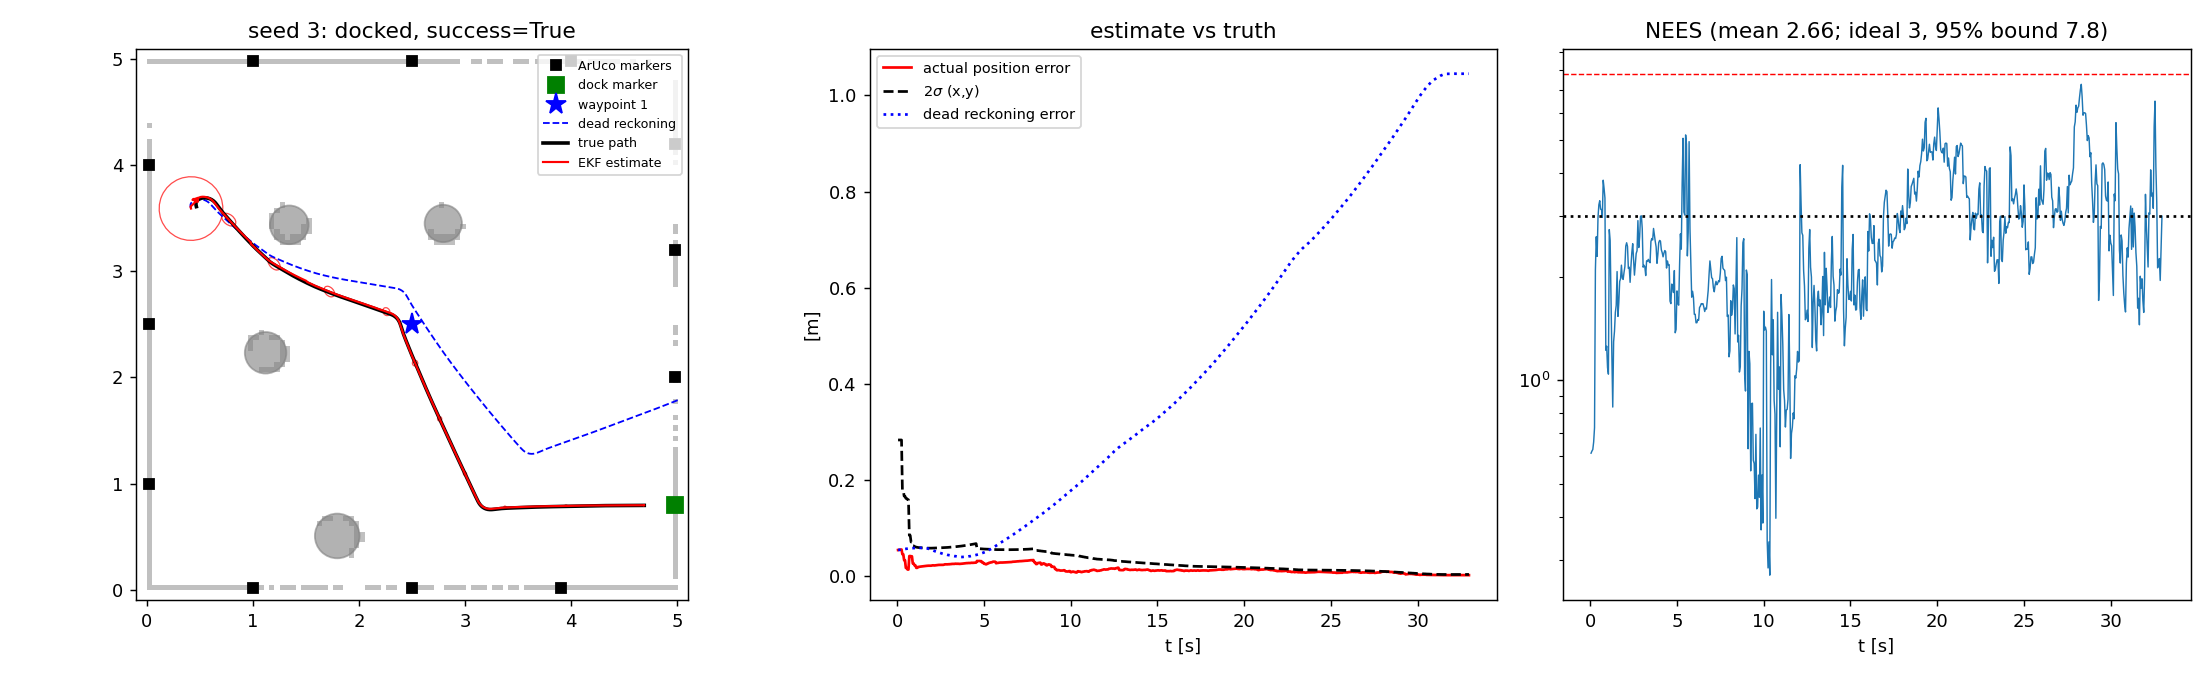
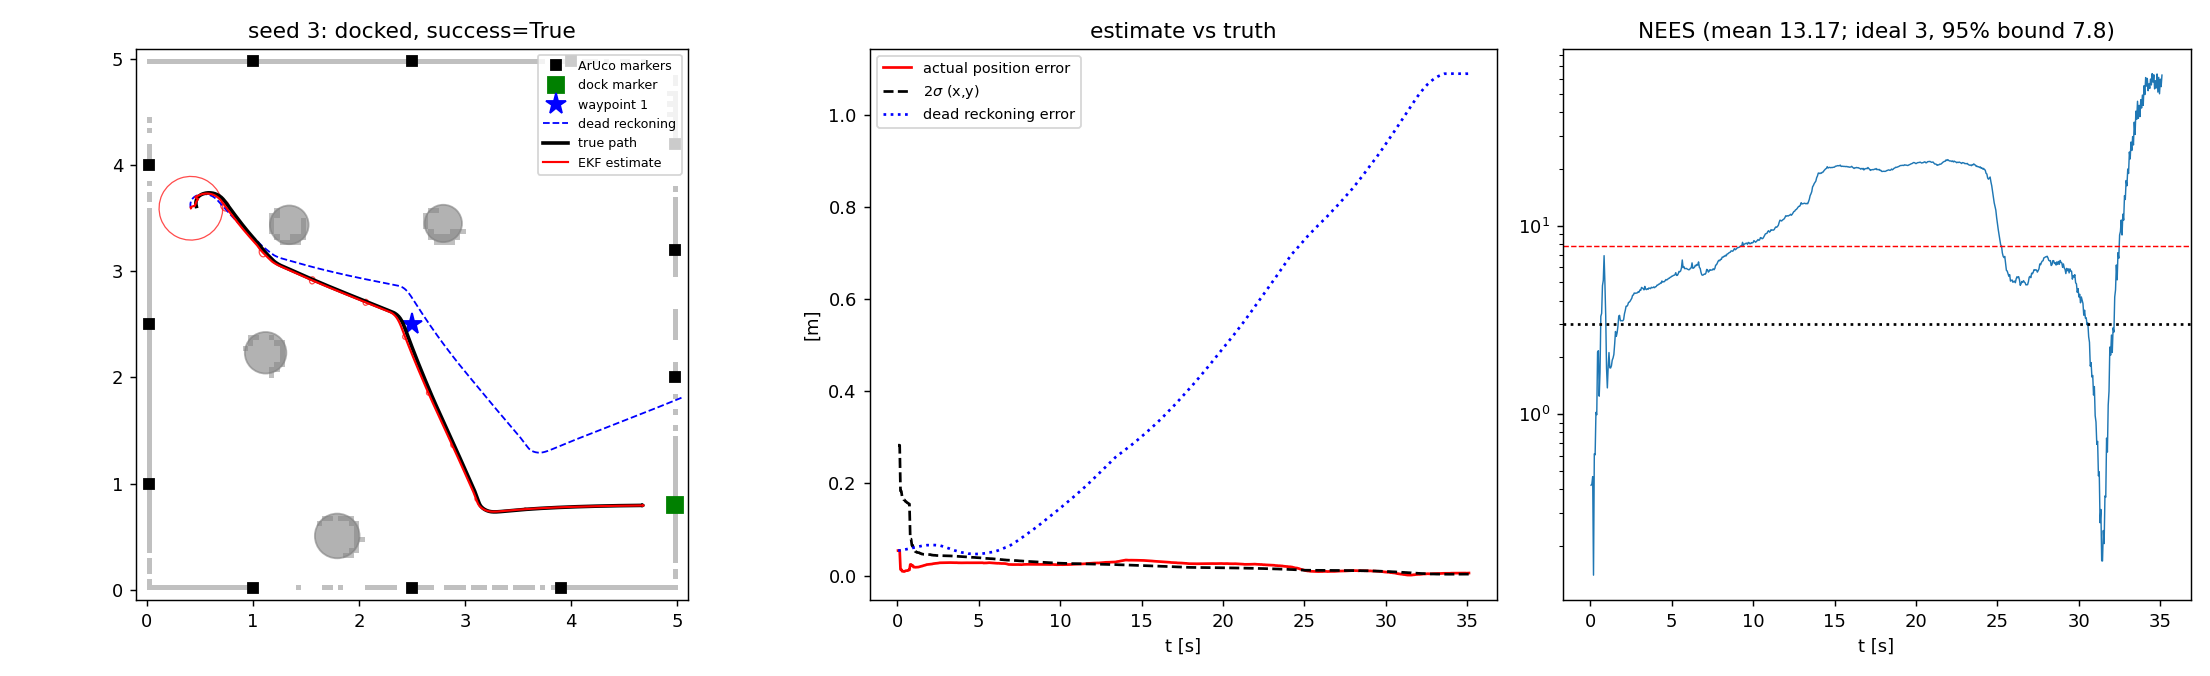
corner head cam added

diff --git a/track A - mobile robot/src/sim/mujoco_backend.py b/track A - mobile robot/src/sim/mujoco_backend.py
@@ -48,7 +48,13 @@ class MujocoWorld:
 
         self.renderer = mujoco.Renderer(self.m, 480, 640)
         self.detector = make_detector()
-        self.viewer = mujoco.viewer.launch_passive(self.m, self.d) if cfg.viewer else None
+        # Adds overview cam
+        self.viewer = None
+        if cfg.viewer:
+            self.viewer = mujoco.viewer.launch_passive(self.m, self.d)
+            # Start the viewer on the overview camera
+            self.viewer.cam.type = mujoco.mjtCamera.mjCAMERA_FIXED
+            self.viewer.cam.fixedcamid = self.m.camera("overview").id
 
     def step(self, v_cmd, w_cmd, dt=C.DT):
         # Commanded (v, w) -> left/right wheel speeds in rad/s for the two velocity motors
@@ -75,6 +81,14 @@ class MujocoWorld:
         self.t += dt
         self._check_collision()
         if self.viewer is not None and self.viewer.is_running():
+            if self.viewer is not None and self.viewer.is_running():
+                # Show the onboard camera as a small picture in the bottom-left corner of the viewer
+                self.renderer.update_scene(self.d, camera="cam")
+                small = cv2.resize(self.renderer.render(), (640, 480))
+                vp = self.viewer.viewport
+                corner = mujoco.MjrRect(vp.left + 10, vp.bottom + 10, 640, 480) if vp else mujoco.MjrRect(10, 10, 320, 240)
+                self.viewer.set_images((corner, small))
+                self.viewer.sync()
             self.viewer.sync()
             time.sleep(dt)                     # roughly real time in the viewer
         return wheels_to_body(vl_m, vr_m)
